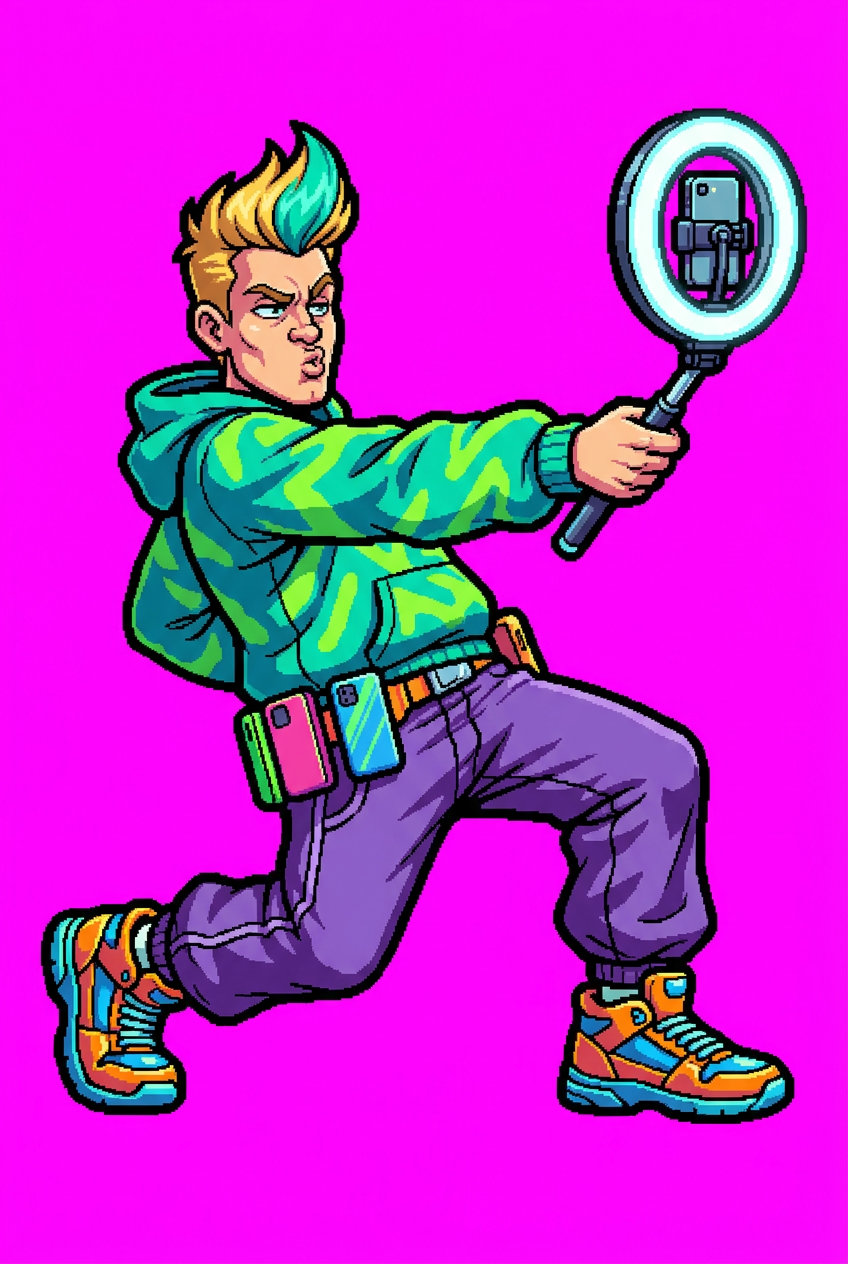
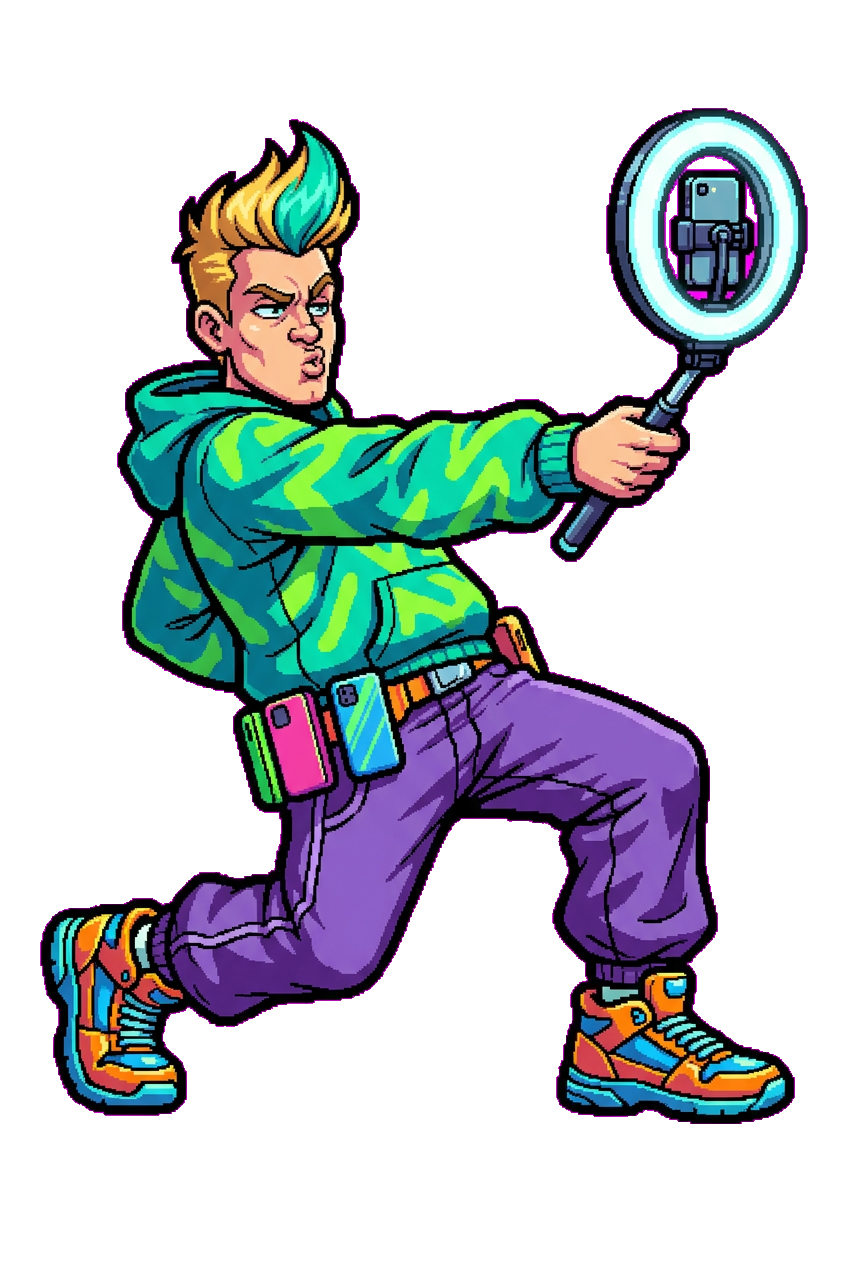
Brand Fighter: pre-cut all enemy and boss sprites to transparent PNGs, drop runtime chroma keying
Claude-Session: https://claude.ai/code/session_01RScCM59oUhw4CHRtHybsau

diff --git a/brand-fighter/index.html b/brand-fighter/index.html
@@ -255,18 +255,19 @@
   var levelLength = W;
 
   // ---------- Art assets ----------
-  // Sprites are generated on a flat chroma-key color; we key it out to alpha on load.
+  // All sprites are pre-cut to transparent PNGs (runtime chroma keying was eating colors that sat near the key color).
+  // chromaKeyToAlpha is kept for any future sprite that still ships on a flat background; just give its entry a `key`.
   var ASSET_SOURCES = {
     bg: { src: 'assets/bg-synthwave.png' },
     // Hero art is pre-cut to transparent PNGs. Runtime keying removed the hero's red gloves, tie and skin shading.
     hero: { src: 'assets/hero.png' },
     heroPunch: { src: 'assets/hero-punch.png' },
     heroKick: { src: 'assets/hero-kick.png' },
-    VIDEO: { src: 'assets/enemy-video.png', key: [255,0,255] },
-    SLOGAN: { src: 'assets/enemy-slogan.png', key: [255,0,255] },
-    TREND: { src: 'assets/enemy-trend.png', key: [255,0,255] },
+    VIDEO: { src: 'assets/enemy-video.png' },
+    SLOGAN: { src: 'assets/enemy-slogan.png' },
+    TREND: { src: 'assets/enemy-trend.png' },
     TREND_GIRL: { src: 'assets/enemy-trend-girl.png' }, // already cut out to transparent, no chroma key needed
-    BOSS: { src: 'assets/boss-slop.png', key: [0,255,0] }
+    BOSS: { src: 'assets/boss-slop.png' }
   };
   var ASSETS = {};
   var ENEMY_SPRITES = {};
